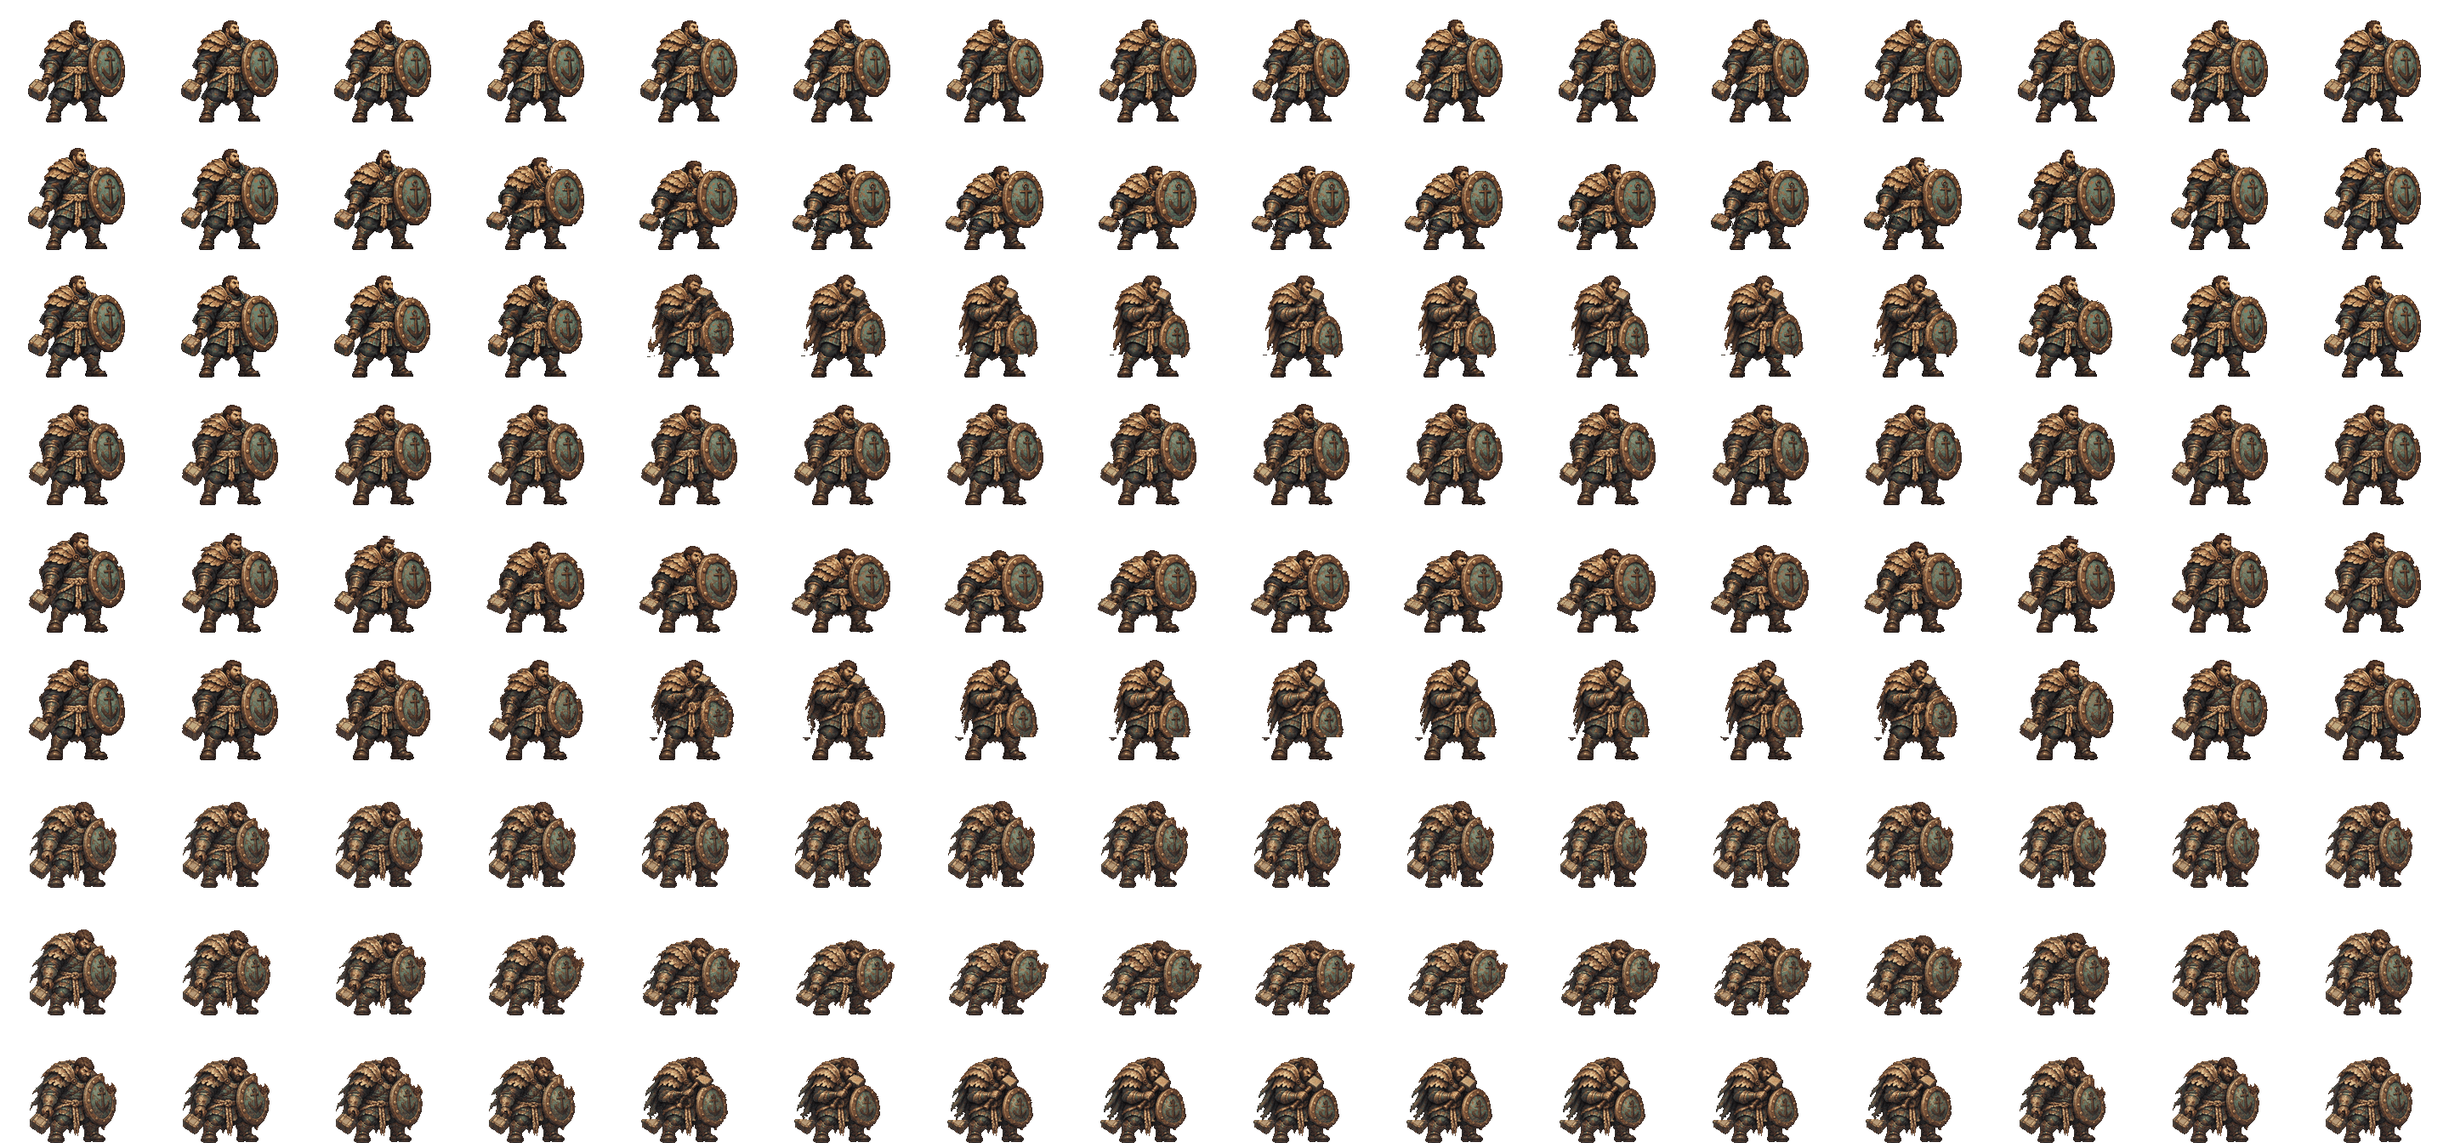
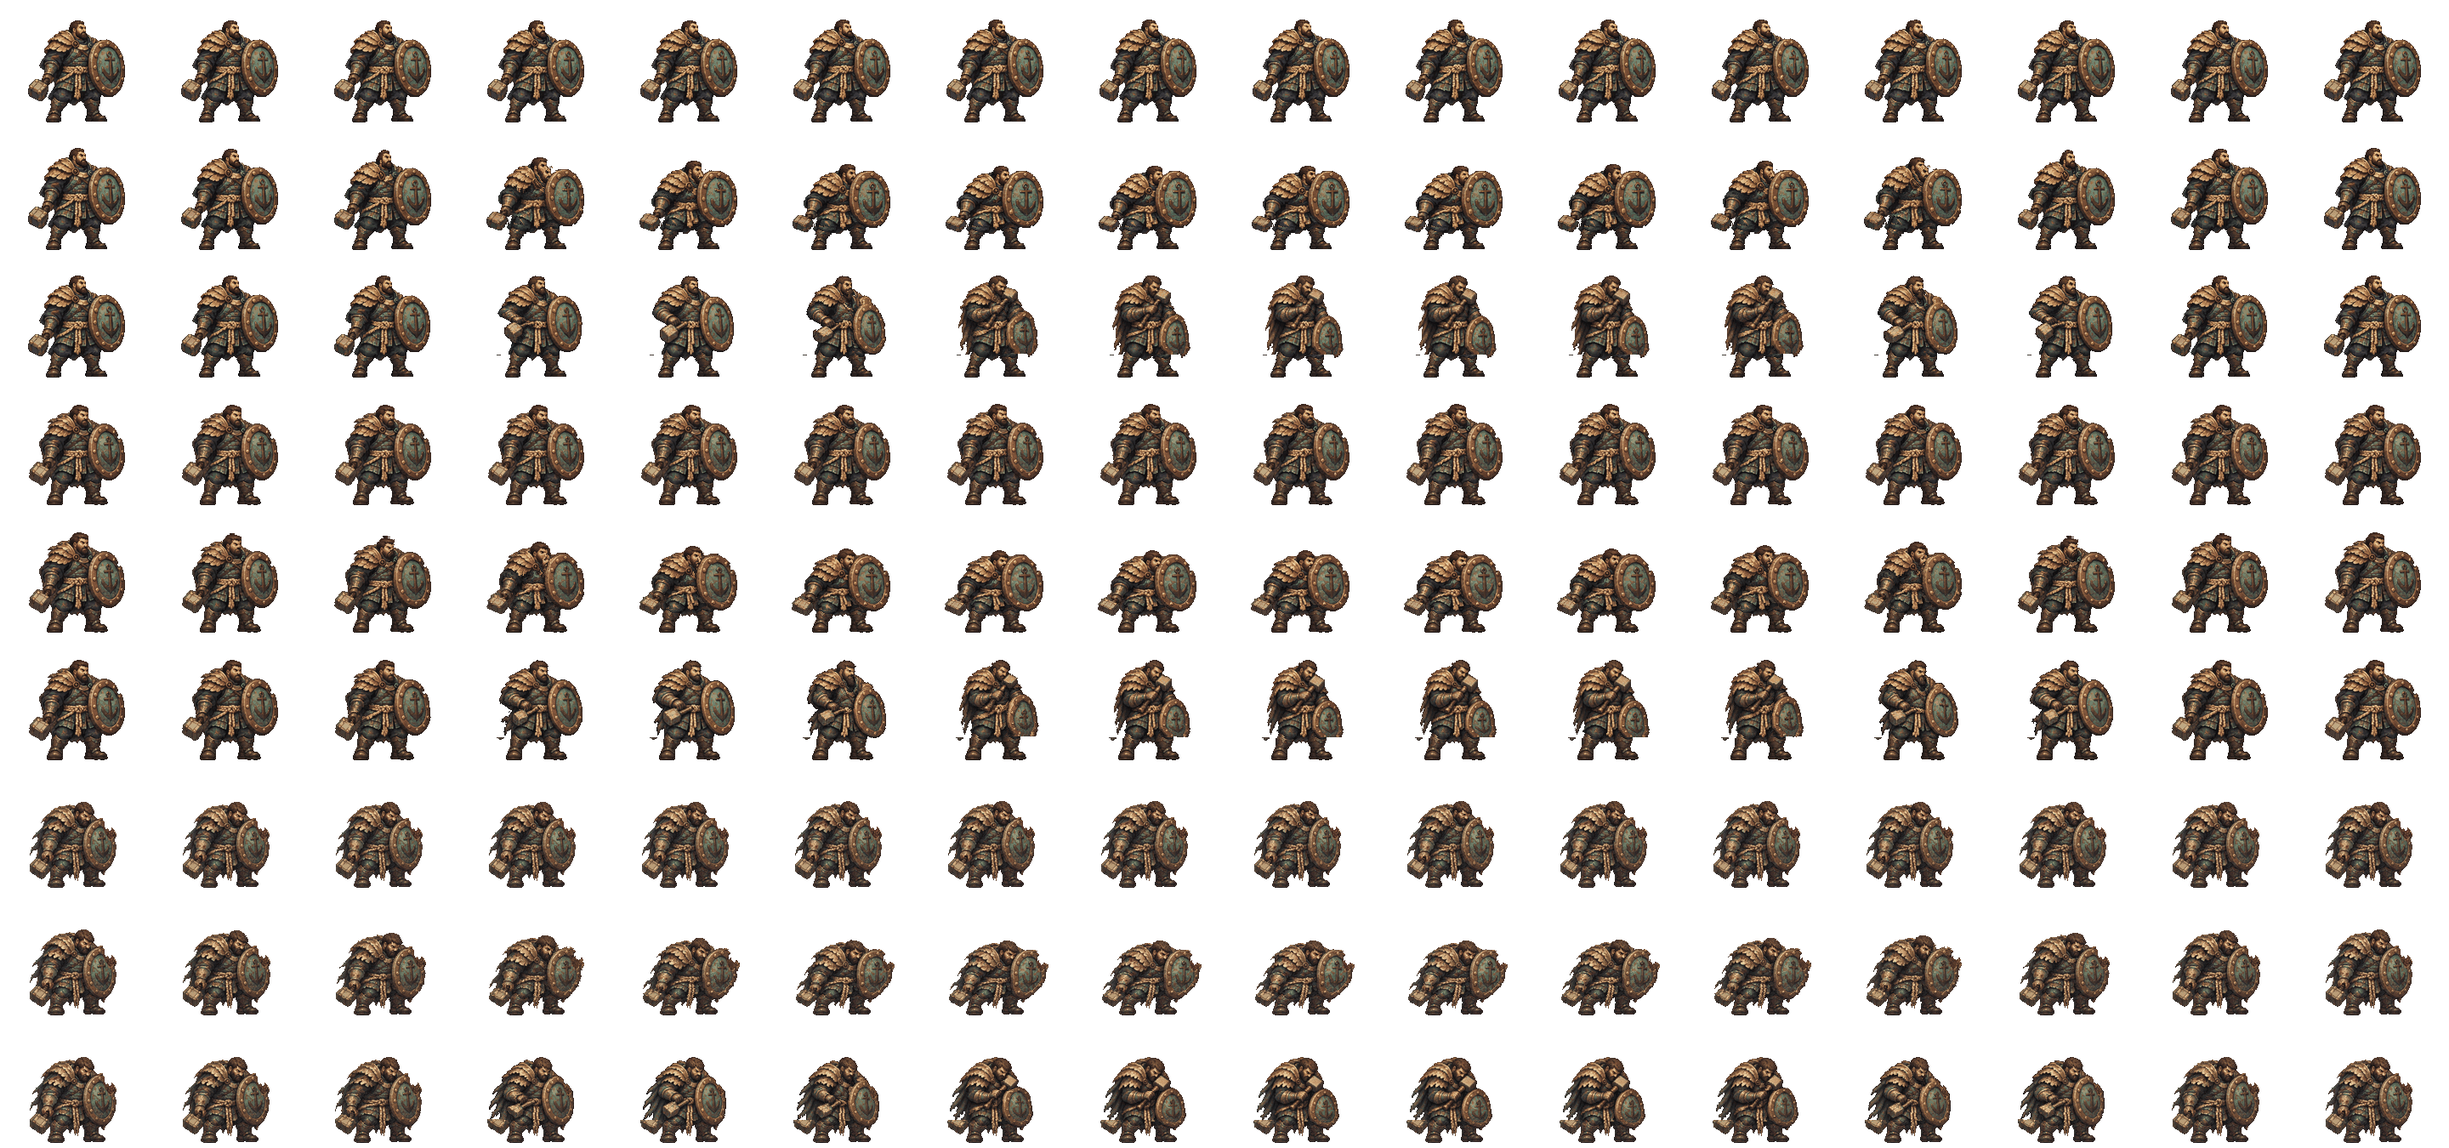
Articulate alternate windups and add painted breakdowns to equipment checks
Rejoin the original contact drawing on column six so damage cues, footwork and palette remain aligned. Give each new signature its own travel, release and recovery landmarks.

diff --git a/public/animation.js b/public/animation.js
@@ -14,6 +14,7 @@ const standingRows = standing.poses.length / standing.columns * fighterLayout.he
 function pose(element, name) {
   trackBelt(element);
   delete element.dataset.track;
+  delete element.dataset.pickup;
   element.style.removeProperty('--clip-row');
   element.querySelector('.arena-cel').style.removeProperty('background-position-x');
   const index = standing.poses.indexOf(name);
@@ -49,6 +50,8 @@ export function fighterSpriteHTML(player, { skinId = player.skinId, reducedMotio
     ? ' data-consume-src="' + skin.consume + '"' + (readySheets.has(skin.consume) ? ' data-consume-ready' : '')
     : '';
   const steps = skin.footwork ? ' data-footwork-src="' + skin.footwork + '"' : '';
+  const variations = skin.variations ? ' data-variations-src="' + skin.variations + '"' +
+    (readySheets.has(skin.variations) ? ' data-variations-ready' : '') : '';
   const motion = skin.motions
     ? ' data-motion-src="' + skin.motions + '"' + (readySheets.has(skin.motions) ? ' data-motion-ready' : '')
     : '';
@@ -57,6 +60,7 @@ export function fighterSpriteHTML(player, { skinId = player.skinId, reducedMotio
     skin.sheet +
     ');' +
     (skin.motions ? '--motion-skin:url(' + skin.motions + ');' : '') +
+    (skin.variations ? '--variation-skin:url(' + skin.variations + ');' : '') +
     (skin.consume ? '--consume-skin:url(' + skin.consume + ');' : '') +
     (skin.footwork ? '--footwork-skin:url(' + skin.footwork + ');' : '') +
     (skin.idles || skin.ambient
@@ -89,7 +93,7 @@ export function fighterSpriteHTML(player, { skinId = player.skinId, reducedMotio
     motion +
     consume +
     steps +
-    ambient + idleSet +
+    ambient + idleSet + variations +
     ' style="' +
     style +
     '"><span class="arena-cel"></span>' +
@@ -155,7 +159,7 @@ export function preloadArenaSkins(players = []) {
                 return;
               }
               readySheets.add(url);
-              for (const layer of ['motion', 'ambient', 'idles', 'consume']) {
+              for (const layer of ['motion', 'ambient', 'idles', 'consume', 'variations']) {
                 document.querySelectorAll('[data-' + layer + '-src="' + url + '"]')
                   .forEach(el => el.setAttribute('data-' + layer + '-ready', ''));
               }
@@ -238,6 +242,10 @@ const centerX = (r) => r.x + r.w * 0.5;
 const centerY = (r) => r.y + r.h * 0.5;
 const translated = (x, y, scale = 1, lean = 0) =>
   'translate(' + x + 'px,' + y + 'px) scale(' + scale + ') rotate(' + lean + 'deg)';
+
+// Rehearsal has no combat turn counter. Repeating a gesture in the fitting
+// room alternates takes without mutating any match data or consuming game RNG.
+const rehearsalTakes = new Map();
 
 export function playArenaAction(arena, recap, options = {}) {
   running.get(arena)?.cancel();
@@ -400,6 +408,20 @@ export function playArenaAction(arena, recap, options = {}) {
     return imprint(kind, centerX(box), centerY(box), size, still ? 245 : full ? 370 : 305);
   }
   const clip = actorClip(score, action, role);
+  let alternate = false;
+  if (!still && !options.effectsOnly && art.hasAttribute('data-variations-ready') &&
+      (clip === 'attack' || clip === 'signature')) {
+    const key = role + '/' + clip;
+    const turn = rehearsal ? (rehearsalTakes.get(key) ?? 0) + 1 : (recap.actorTurn ?? 1);
+    alternate = turn % 2 === 0;
+    if (rehearsal) rehearsalTakes.set(key, turn % 2);
+  }
+  const variation = alternate ? part(art, 'arena-variation-cel') : null;
+  if (variation) {
+    const row = fighterLayout.health.findIndex(band => band.id === art.dataset.tier) * 2 + Number(clip === 'signature');
+    variation.style.backgroundPositionY = row * 20 + '%';
+    art.dataset.take = 'alternate';
+  }
   const duration = score.path.at(-1)[0];
   const lead = score.family === 'cast' ? score.release : score.contact;
   const actorFrames = [0, 0.2, 0.37, 0.53, 0.67, 0.8, 0.91, 1].map((fraction) => fraction * lead);
@@ -410,6 +432,7 @@ export function playArenaAction(arena, recap, options = {}) {
     if (track === 'consume' && !element.hasAttribute('data-consume-ready')) track = 'brace';
     const single = track === 'consume';
     if (!single && (!element.hasAttribute('data-motion-ready') || !motionSheet.rows.includes(track))) return false;
+    delete element.dataset.pickup;
     element.dataset.track = track;
     element.dataset.pose = 'perform';
     const totalRows = motionSheet.rows.length * fighterLayout.health.length;
@@ -425,6 +448,10 @@ export function playArenaAction(arena, recap, options = {}) {
       at(time, () => {
         if (activeClips.get(element) !== token) return;
         const column = exposures?.[i + 1] ?? i + 1;
+        if (variation && element === art && track === clip) {
+          element.toggleAttribute('data-pickup', column >= 1 && column <= 5);
+          if (element.hasAttribute('data-pickup')) variation.style.backgroundPositionX = (column - 1) * 25 + '%';
+        }
         trackBelt(element, track, column);
         atlas.style.backgroundPositionX = column / (motionSheet.columns - 1) * 100 + '%';
       });

diff --git a/e2e/desktop-motion.spec.js b/e2e/desktop-motion.spec.js
@@ -12,8 +12,9 @@ function readySeat(role) {
   return applyCommand(match, role, { type: 'pick', rewardId: match.offers[0] });
 }
 
-async function perform(page, role, action) {
+async function perform(page, role, action, take = 1) {
   const state = readySeat(role);
+  state.players.find((p) => p.id === role).personalTurn = take;
   if (action === 'venom-flask') state.players.find((p) => p.id === 'berserker').shield = 500;
   await page.evaluate((save) => sessionStorage.setItem('rift-solo', JSON.stringify(save)), {
     state,
@@ -34,6 +35,8 @@ async function perform(page, role, action) {
       seen: false,
       finished: false,
       cells: [],
+      pickup: [],
+      impactTake: null,
       clip: null,
       score: null,
       impact: null,
@@ -62,6 +65,14 @@ async function perform(page, role, action) {
       const number = Math.round(
         (parseFloat(getComputedStyle(actor.querySelector('.arena-cel')).backgroundPositionX) * 11) / 100,
       );
+      if (actor.hasAttribute('data-pickup')) {
+        const take = actor.querySelector('.arena-variation-cel');
+        if (Number(getComputedStyle(take).opacity) === 1 &&
+            Number(getComputedStyle(actor.querySelector('.arena-cel')).opacity) === 0) {
+          const column = Math.round(parseFloat(getComputedStyle(take).backgroundPositionX) / 25);
+          if (!trace.pickup.includes(column)) trace.pickup.push(column);
+        }
+      }
       if (actor.hasAttribute('data-footwork')) {
         const stepStyle = getComputedStyle(actor.querySelector('.arena-step-cel'));
         const baseOpacity = parseFloat(getComputedStyle(actor.querySelector('.arena-cel')).opacity);
@@ -70,7 +81,10 @@ async function perform(page, role, action) {
         trace.maxOverlap = Math.max(trace.maxOverlap, Math.min(baseOpacity, stepOpacity));
         trace.steps.add(Math.round((parseFloat(stepStyle.backgroundPositionX) * 3) / 100));
       } else if (!trace.cells.includes(number)) trace.cells.push(number);
-      if (scene.dataset.stage === 'impact' && trace.impact === null) trace.impact = number;
+      if (scene.dataset.stage === 'impact' && trace.impact === null) {
+        trace.impact = number;
+        trace.impactTake = Number(getComputedStyle(actor.querySelector('.arena-cel')).opacity);
+      }
       if (world.querySelector('[data-travelling]')) trace.floorLeft = true;
       for (const el of scene.querySelectorAll('[data-effect]'))
         if (!trace.fx.includes(el.dataset.effect)) trace.fx.push(el.dataset.effect);
@@ -121,6 +135,18 @@ test('desktop weapon swing, shield drive and bottle throw use different illustra
     await expect(page.locator('[data-travelling],.arena-fx,[data-playing="hidden"]')).toHaveCount(0);
   }
   expect(errors).toEqual([]);
+});
+
+test('alternate weapon and signature preparations land on their original contact drawing', async ({ page }) => {
+  await page.goto('/');
+  for (const [role, action] of [['guardian','attack'], ['guardian','bastion-bash'], ['alchemist','venom-flask']]) {
+    const first = await perform(page, role, action, 1);
+    const second = await perform(page, role, action, 2);
+    expect(first.pickup).toEqual([]);
+    expect(second.pickup).toEqual(expect.arrayContaining([1,3]));
+    expect(second.impact).toBe(first.impact);
+    expect(second.impactTake).toBe(1);
+  }
 });
 
 test('a slow paint loop preserves the anticipation and recovery of a normal-speed shield drive', async ({ page }) => {

diff --git a/public/combat-motion.js b/public/combat-motion.js
@@ -55,6 +55,24 @@ const tracks = {
     [655, 0.025, 0, 0, 0],
     [705, 0, 0, 0, 0],
   ],
+  'card-flick': [
+    [0,0,0,0,0], [116,0,-.012,.016,-3], [228,0,-.05,.035,-7],
+    [308,0,.07,.026,8], [386,0,.053,.01,5], [510,0,-.01,.008,-1], [790,0,0,0,0],
+  ],
+  'soul-thread': [
+    [0,0,0,0,0], [218,0,.025,.018,3], [420,0,.062,.035,6],
+    [498,0,.045,.042,3], [610,0,-.08,.012,-7], [762,0,-.035,0,-4], [990,0,0,0,0],
+  ],
+  'mirror-feint': [
+    [0,0,0,0,0], [123,.07,-.025,.029,-4], [218,.39,0,.06,2],
+    [285,.23,0,-.018,-7], [400,.79,0,.042,3], [455,1,0,0,9],
+    [518,.91,0,.022,2], [641,.52,0,.07,-4], [748,.17,0,.014,-2], [850,0,0,0,0],
+  ],
+  'rivet-drive': [
+    [0,0,0,0,0], [153,0,-.044,-.018,-4], [282,.05,-.086,-.047,-9],
+    [345,.22,0,-.04,1], [445,.82,0,.018,6], [489,1,0,.044,10],
+    [554,.99,0,.006,8], [688,.92,0,-.018,-2], [795,.6,0,.065,-5], [940,.22,0,.036,-2], [1030,0,0,0,0],
+  ],
   dial: [
     [0, 0, 0, 0, 0],
     [220, 0, -0.018, 0.022, -3],
@@ -134,6 +152,10 @@ const score = (family, gesture, effect, track, clip, contact, release = contact)
   Object.freeze({ family, gesture, effect, track, clip, contact, release, path: tracks[track] });
 
 const moves = {
+  'card-flick':   score('cast', 'throw', 'arcane', 'card-flick', 'cast', 608, 308),
+  'soul-thread':  score('cast', 'cast', 'doom', 'soul-thread', 'cast', 610, 420),
+  'mirror-feint': score('melee', 'attack', 'slash', 'mirror-feint', 'attack', 455),
+  'rivet-drive':  score('melee', 'attack', 'bastion', 'rivet-drive', 'attack', 489),
   swing:     score('melee', 'attack', 'slash', 'swing', 'attack', 425),
   bash:      score('melee', 'attack', 'bastion', 'bash', 'attack', 495),
   cleave:    score('melee', 'attack', 'cleave', 'cleave', 'attack', 530),

diff --git a/public/animation.css b/public/animation.css
@@ -395,3 +395,13 @@ body.reduce-motion .arena-sprite[data-pose='idle'] {
   96.99% { background-position:100% var(--focus-y); animation-timing-function:step-end; }
   97%,100% { background-position:0% var(--rest-y); }
 }
+
+/* Retakes share the strike's release, impact and recovery. Only the five
+   pickup drawings need packing. Both layers are ready before the swap. */
+.arena-variation-cel {
+  display:block; position:absolute; inset:0; opacity:0; pointer-events:none;
+  image-rendering:pixelated; background:var(--variation-skin) 0 0 / 500% 600% no-repeat;
+}
+[data-facing='left'] .arena-variation-cel { transform:scaleX(-1); }
+.arena-sprite[data-pickup]:not([data-footwork]) > .arena-cel { opacity:0; }
+.arena-sprite[data-pickup]:not([data-footwork]) > .arena-variation-cel { opacity:1; }

diff --git a/scripts/build-idle-performances.py b/scripts/build-idle-performances.py
@@ -9,6 +9,7 @@ from pathlib import Path
 import importlib.util
 import math
 import json
+import sys
 
 import cv2
 import numpy as np
@@ -20,6 +21,7 @@ MASTERS = HERE / 'art' / 'idles'
 KIT = json.loads((PUBLIC / 'fighter-kit.json').read_text())
 spec = importlib.util.spec_from_file_location('founder_art', HERE / 'build-fighter-skins.py')
 founder_art = importlib.util.module_from_spec(spec)
+sys.dont_write_bytecode = True
 spec.loader.exec_module(founder_art)
 CELL = founder_art.CELL
 BANDS = founder_art.TIERS
@@ -90,7 +92,7 @@ def feet(image):
     return float((np.percentile(soles, 5) + np.percentile(soles, 95)) / 2), int(floor)
 
 
-def register(board, role):
+def register(board, role, breakdown=False):
     wardrobe = skins(role)
     w, h = board.size
     for col, skin in enumerate(wardrobe):
@@ -111,7 +113,8 @@ def register(board, role):
             origin = max(CROP[0], min(CROP[2]-art.width, round(foot-new_foot)))
             masters.alpha_composite(art, (origin, band*CELL[1] + floor-new_floor))
         MASTERS.mkdir(parents=True,exist_ok=True)
-        masters.save(MASTERS / (role+'-'+skin['id']+'.webp'), lossless=True,method=6)
+        suffix = '-mid.webp' if breakdown else '.webp'
+        masters.save(MASTERS / (role+'-'+skin['id']+suffix), lossless=True,method=6)
 
 
 def ripple(image, role, band, phase, strength):
@@ -144,12 +147,47 @@ def exposure(frame, timing):
     v = min(1,frame/arrive) if frame <= leave else (end-frame)/(end-leave)
     return v*v*(3-2*v)
 
+# The alternate attack collects its weight in a class-specific guard. The
+# signature chambers through a different hand/shoulder action on the same rig.
+# Both rejoin the canonical contact drawing before the weapon lands.
+CHAMBERS = {
+    'guardian':     (('brace',5), ('attack',3)),
+    'berserker':    (('signature',3), ('brace',6)),
+    'chronomancer': (('brace',4), ('cast',3)),
+    'alchemist':    (('brace',4), ('utility',3)),
+    'gambler':      (('signature',2), ('brace',4)),
+    'necromancer':  (('brace',4), ('utility',3)),
+    'trickster':    (('signature',3), ('brace',5)),
+    'artificer':    (('brace',5), ('utility',3)),
+}
+
+
+def publish_variations(skin):
+    motions = image_asset(skin['motions'])
+    role = skin['classId']
+    tracks = KIT['layers']['motions']['rows']
+    atlas = Image.new('RGBA',(5*CELL[0],6*CELL[1]))
+    for band in range(3):
+        for row, track in enumerate(('attack','signature')):
+            prep, index = CHAMBERS[role][row]
+            first = crop_cell(motions, 0, band*len(tracks)+tracks.index(track))
+            chamber = crop_cell(motions, index, band*len(tracks)+tracks.index(prep))
+            release = crop_cell(motions, 6, band*len(tracks)+tracks.index(track))
+            body = founder_art.Inbetweens([first, chamber, release])
+            for col,(a,b,v) in enumerate(((0,1,.4),(0,1,.88),(0,1,1),(1,2,.28),(1,2,.69))):
+                atlas.paste(body.between(a,b,v),(col*CELL[0],(band*2+row)*CELL[1]))
+    output = PUBLIC / skin['variations'].lstrip('/')
+    atlas.save(output,lossless=True,method=5)
+    print(f'{role}/{skin["id"]} windups: {output.stat().st_size:,} bytes',flush=True)
+
 
 def publish(skin):
     role, name = skin['classId'], skin['id']
     rest_sheet, motions = image_asset(skin['sheet']), image_asset(skin['motions'])
     path = MASTERS / (role+'-'+name+'.webp')
     key_sheet = Image.open(path).convert('RGBA') if path.exists() else None
+    mid_path = MASTERS / (role+'-'+name+'-mid.webp')
+    mid_sheet = Image.open(mid_path).convert('RGBA') if mid_path.exists() else None
     width, height = CROP[2]-CROP[0], CROP[3]-CROP[1]
     atlas = Image.new('RGBA',(COLUMNS*width,len(BANDS)*3*height))
     tracks = KIT['layers']['motions']['rows']
@@ -161,11 +199,20 @@ def publish(skin):
         # supplying its own second key painting.
         alternate = crop_cell(key_sheet,0,band) if key_sheet else crop_cell(motions,3,band*len(tracks)+tracks.index('attack'))
         focus = planted(base,alternate)
-        interp = founder_art.Inbetweens([base,check,focus])
+        keys = [base, check, focus]
+        if mid_sheet:
+            keys.append(planted(base, crop_cell(mid_sheet,0,band)))
+        interp = founder_art.Inbetweens(keys)
         for take in range(3):
             for col in range(COLUMNS):
                 phase = col / (COLUMNS if take==0 else COLUMNS-1)
-                image = base if take==0 else interp.between(0,take,exposure(col,SCORES[role][take-1]))
+                image = base
+                if take:
+                    amount = exposure(col,SCORES[role][take-1])
+                    if take == 2 and mid_sheet:
+                        image = interp.between(0,3,amount*2) if amount < .5 else interp.between(3,2,amount*2-1)
+                    else:
+                        image = interp.between(0,take,amount)
                 image = ripple(image,role,band,phase,1 if take==0 else .5)
                 bbox = image.getbbox()
                 if bbox[0]<CROP[0] or bbox[1]<CROP[1] or bbox[2]>CROP[2] or bbox[3]>CROP[3]:
@@ -186,12 +233,18 @@ if __name__ == '__main__':
     parser.add_argument('--role',choices=tuple(RIGS))
     parser.add_argument('--skin')
     parser.add_argument('--import-board',type=Path)
+    parser.add_argument('--breakdown',action='store_true',help='register the middle of a gesture')
+    parser.add_argument('--variations-only',action='store_true')
     args=parser.parse_args()
     cv2.setNumThreads(1)
     if args.import_board:
         if not args.role: parser.error('--import-board requires --role')
-        register(Image.open(args.import_board).convert('RGBA'),args.role)
+        register(Image.open(args.import_board).convert('RGBA'),args.role,args.breakdown)
     for role in (args.role,) if args.role else KIT['founders']:
         for skin in skins(role):
-            if skin.get('idles') and (not args.skin or skin['id']==args.skin):
+            if args.skin and skin['id'] != args.skin:
+                continue
+            if skin.get('idles') and not args.variations_only:
                 publish(skin)
+            if skin.get('variations'):
+                publish_variations(skin)
